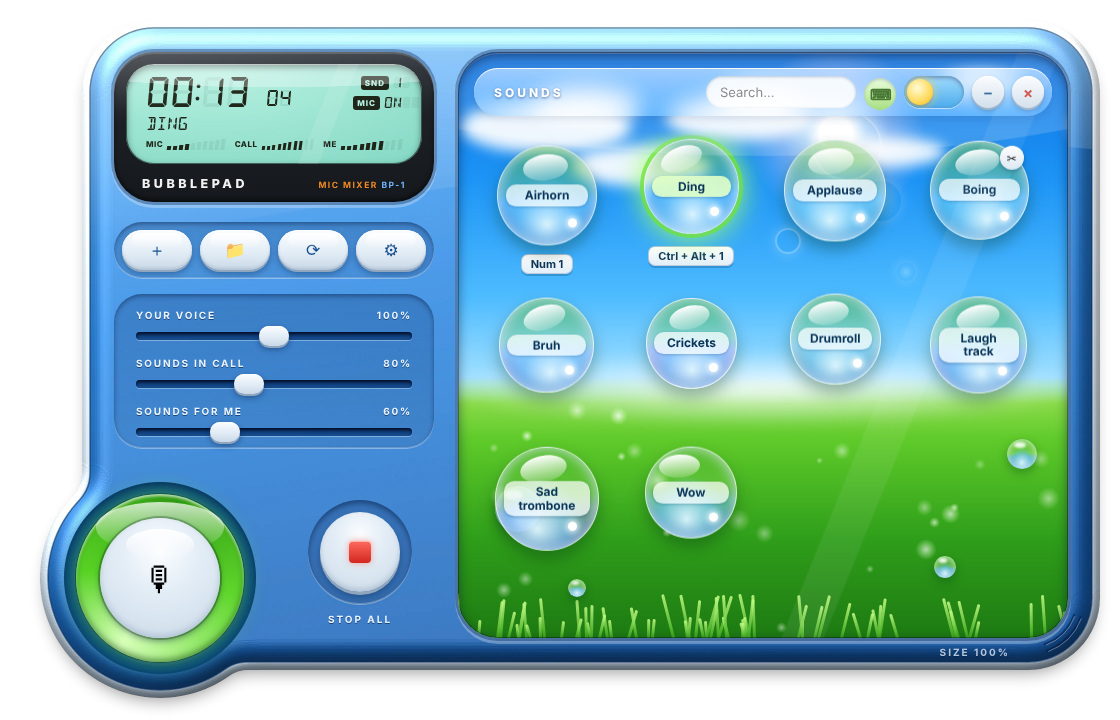
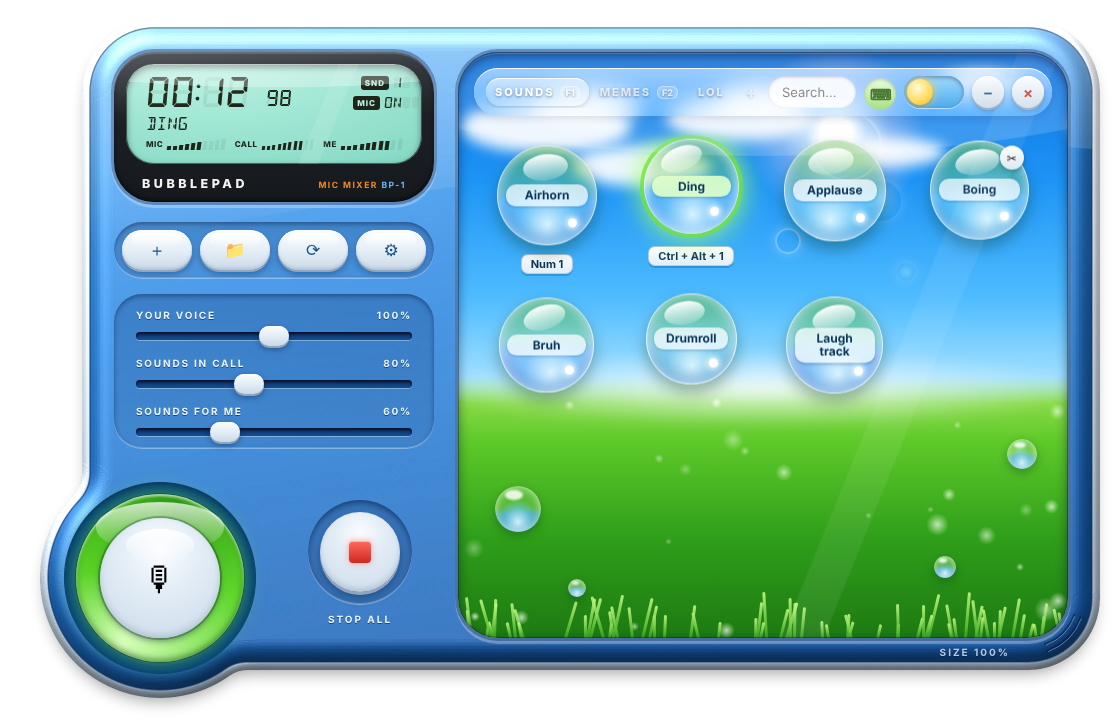
v0.4.0: release notes, fresh screenshots, hotkey diagnostics only in debug mode
Claude-Session: https://claude.ai/code/session_012LAJSJbCp2TfXy8AEWFqjc

diff --git a/hotkeys.py b/hotkeys.py
@@ -19,8 +19,14 @@ from PySide6.QtCore import QObject, Signal
 import config
 
 
+DEBUG = "--debug" in sys.argv     # "Bubblepad (debug).bat": registra por qué vía llega cada atajo
+
+
 def diag(text):
-    """Registro de diagnóstico de atajos (bubblepad.log). Nunca apunta qué teclas se pulsan."""
+    """Registro de diagnóstico de atajos (bubblepad.log), solo en modo depuración.
+    Nunca apunta qué teclas se pulsan."""
+    if not DEBUG:
+        return
     try:
         with open(os.path.join(config.BASE, "bubblepad.log"), "a", encoding="utf-8") as f:
             f.write(time.strftime("%Y-%m-%d %H:%M:%S") + "  [atajos] " + text + "\n")
@@ -297,7 +303,7 @@ class HotkeyManager(QObject):
                 try:
                     self._poll()
                     self._tick += 1
-                    if self._tick % 30 == 0:                     # ~cada medio segundo
+                    if DEBUG and self._tick % 30 == 0:           # ~cada medio segundo
                         self._watch_foreground()
                 except Exception as e:
                     if self._tick % 2000 == 1:

diff --git a/bubblepad.py b/bubblepad.py
@@ -59,7 +59,7 @@ def launch_elevated():
     if sys.platform != "win32":
         return False
     import ctypes
-    hidden = " --hidden" if ("--hidden" in sys.argv or "--oculto" in sys.argv) else ""
+    hidden = (" --hidden" if ("--hidden" in sys.argv or "--oculto" in sys.argv) else "") + (" --debug" if "--debug" in sys.argv else "")
     if config.FROZEN:
         exe, args = sys.executable, "--relaunch" + hidden
     else:

diff --git a/docs/RELEASE_NOTES.md b/docs/RELEASE_NOTES.md
@@ -4,16 +4,16 @@
 - **`Bubblepad-Setup.exe` (recommended):** installer. Installs Bubblepad for your user, no admin rights needed, with a Start menu shortcut and an uninstaller.
 - **`Bubblepad-windows.zip`:** portable version. Unzip it anywhere and run `Bubblepad.exe`; nothing gets installed.
 
-### What's new in v0.3.0
-- **New default look: Chrome.** A silver 2000s media-player chassis with a pixel LCD, fused segmented buttons, LEDs and engraved icons. The bubbly Aqua look is still there as *Classic* in ⚙ → *Look*.
-- **Playlist with real waveforms.** Every sound gets its own row with its waveform, length and hotkey; the wave fills up as it plays.
-- **Stop button nested into the mic button**, with a red LED while anything is playing.
-- **Night mode for Chrome:** graphite chassis with amber screens.
+### What's new in v0.4.0
+- **Sound pages.** Organise your sounds in tabs (each tab is just a subfolder of your sounds folder). Create one with **+**, and drag a sound onto a tab to move it: it follows your cursor with a bit of spring and the tab gulps it in.
+- **Many sounds, few keys.** Each page has its own sound hotkeys, so `Ctrl + Num1` can play one sound on *Memes* and another on *Ranked*. Give each page its own hotkey (right-click its tab, e.g. F1, F2…) or set *Next / previous page* in ⚙. When you switch page with a hotkey you hear a soft bubble pop only you can hear (one pop for page 1, two for page 2…), so you know where you are mid-game.
+- **Hotkeys now work inside League of Legends** and other games that tell Windows to ignore app shortcuts, without needing administrator rights.
+- **Numpad hotkeys work with Num Lock off.**
+- **Start with Windows** (⚙ → *When your PC starts*): opens hidden in the tray, so the virtual mic is always ready and Discord never needs reconfiguring.
 
-### Since v0.2.0
-- **Built-in noise reduction (RNNoise).** Bubblepad cleans your voice before mixing it with your sounds, so you can turn off Discord's noise suppression without losing your effects. Switch it in ⚙ → *Connections* → *Reduce noise* (on by default).
-- **Connections panel.** Your mic, the pad, the call and your headphones appear joined by cables that light up with the signal. Click any of them to choose its device.
-- **Installer** alongside the portable zip.
+### Since v0.3.0
+- **Chrome look by default:** a silver 2000s media-player chassis with a pixel LCD, a playlist with real waveforms and a graphite/amber night mode. The bubbly Aqua look is still in ⚙ → *Look*.
+- **Built-in noise reduction (RNNoise)**, a visual **connections panel** and the **installer** (v0.2.0).
 
 ### Get started
 1. Open Bubblepad. No VB-CABLE yet? It offers to install it in one click (official installer from vb-audio.com → press *Install Driver*), then restart your PC.
@@ -21,9 +21,15 @@
 3. Turn off Discord's noise suppression: Bubblepad already cleans your voice.
 
 ### Good to know
-- Hotkeys not working inside a game like League of Legends? ⚙ → *Games* → **Restart as administrator**.
+- A hotkey still doesn't reach a game that runs as administrator? ⚙ → *Games* → **Restart as administrator**.
 - Windows may show a blue SmartScreen warning because the app isn't code-signed yet: *More info → Run anyway*.
 - Your sound files are never modified; trims are stored in `config.json`.
 
 ---
-**Español:** descarga **Bubblepad-Setup.exe** (instalador, recomendado) o el **.zip** portable. Novedades de la v0.3.0: nuevo aspecto metálico estilo reproductor de los 2000 por defecto (el de burbujas sigue en ⚙ → Aspecto → Clásico), lista de sonidos con su onda real, botón de parar junto al micro y modo noche grafito/ámbar. Desde la v0.2.0: reducción de ruido integrada para tu voz (ya puedes quitar la de Discord sin perder tus sonidos), nuevo panel de conexiones con cables y el instalador. En Discord elige **CABLE Output** como micrófono y quita su supresión de ruido.
+**Español:** descarga **Bubblepad-Setup.exe** (instalador, recomendado) o el **.zip** portable. Novedades de la v0.4.0:
+- **Páginas de sonidos** en pestañas. Cada una es una subcarpeta. Arrastra un sonido a una pestaña para moverlo.
+- **Atajos propios en cada página**, así con pocas teclas tienes muchos sonidos. Para cambiar de página, ponle un atajo a cada una (clic derecho en la pestaña) o usa «Página siguiente/anterior». Al cambiar con un atajo, solo tú oyes un «plop» de burbuja.
+- **Los atajos funcionan dentro del LoL** sin ser administrador, y los del teclado numérico también con Bloq Num apagado.
+- **Opción de abrir Bubblepad al encender el PC**, escondido en la bandeja.
+
+En Discord elige **CABLE Output** como micrófono y quita su supresión de ruido.
